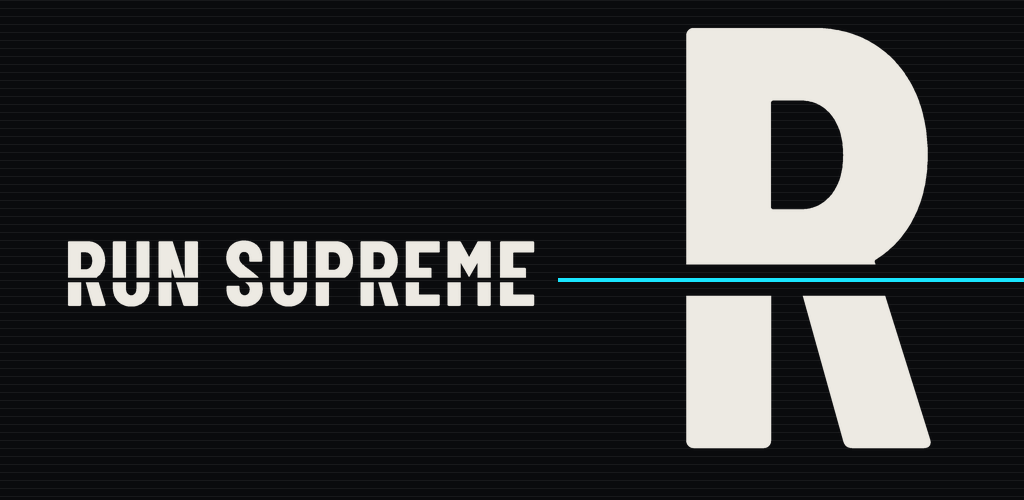
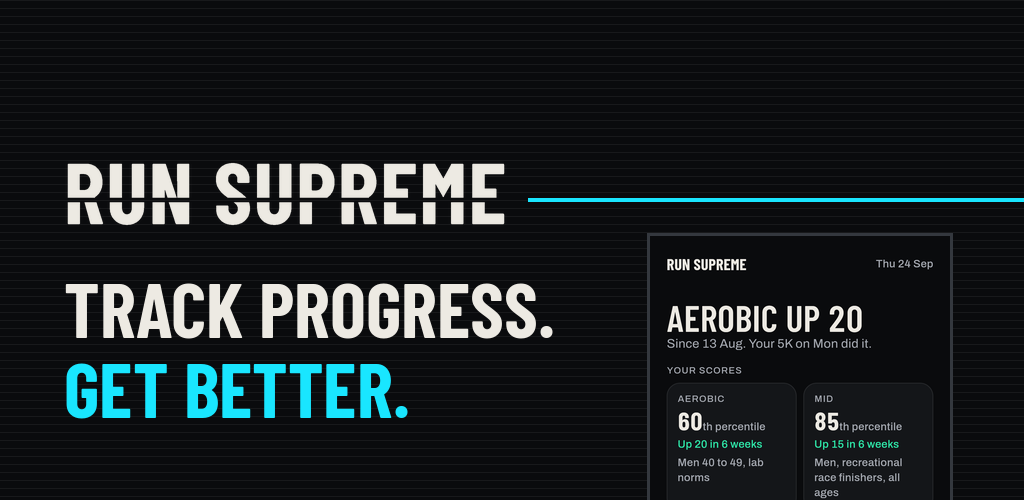
Store listing draft: taglines, description, screenshots (#164)
* Store listing draft: taglines, description, screenshots

Claude-Session: https://claude.ai/code/session_01BbvRwjMdLHyAGUNHf3xqHU

* Store listing: approved copy, progress feature graphic primary, onboarding headline

Claude-Session: https://claude.ai/code/session_01BbvRwjMdLHyAGUNHf3xqHU

* Onboarding intro goldens for the new headline

Claude-Session: https://claude.ai/code/session_01BbvRwjMdLHyAGUNHf3xqHU

---------

Changed region(s): [[0.0625, 0.03, 1.0, 1.0], [0.0625, 0.72, 0.4062, 0.84]]

diff --git a/test/screens/onboarding_test.dart b/test/screens/onboarding_test.dart
@@ -27,7 +27,7 @@ void main() {
       ),
     );
     // One frame, no post-frame work yet: this is what the phone shows first.
-    expect(find.text('YOU AGAINST\nYOUR LAST RUN'), findsOneWidget);
+    expect(find.text('TRACK PROGRESS.\nGET BETTER.'), findsOneWidget);
     expect(find.byType(HomeScreen), findsNothing);
   });
 
@@ -49,7 +49,7 @@ void main() {
     await settleAnimations(tester);
     expect(services.settings.settings.onboardingDone, isTrue);
     expect(find.byType(HomeScreen), findsOneWidget);
-    expect(find.text('YOU AGAINST\nYOUR LAST RUN'), findsNothing);
+    expect(find.text('TRACK PROGRESS.\nGET BETTER.'), findsNothing);
   });
 
   testWidgets('back from set up lands on the intro, never Home', (
@@ -64,7 +64,7 @@ void main() {
 
     await tester.binding.handlePopRoute();
     await settleAnimations(tester);
-    expect(find.text('YOU AGAINST\nYOUR LAST RUN'), findsOneWidget);
+    expect(find.text('TRACK PROGRESS.\nGET BETTER.'), findsOneWidget);
     expect(find.byType(HomeScreen), findsNothing);
     expect(services.settings.settings.onboardingDone, isFalse);
   });
@@ -84,7 +84,7 @@ void main() {
     await pumpTimes(tester, 5);
     await tester.pump(const Duration(milliseconds: 400));
     expect(find.byType(RecordingScreen), findsOneWidget);
-    expect(find.text('YOU AGAINST\nYOUR LAST RUN'), findsNothing);
+    expect(find.text('TRACK PROGRESS.\nGET BETTER.'), findsNothing);
     expect(services.settings.settings.onboardingDone, isFalse);
   });
 
@@ -158,7 +158,7 @@ void main() {
     final fade = find.byKey(const ValueKey('more-below-fade'));
     await pumpApp(tester, fakeServices(settings: _fresh), onboarding: true);
     await settleAnimations(tester);
-    expect(find.text('YOU AGAINST\nYOUR LAST RUN'), findsOneWidget);
+    expect(find.text('TRACK PROGRESS.\nGET BETTER.'), findsOneWidget);
     expect(fade, findsNothing, reason: 'the intro fits at 360 x 780');
 
     tester.view.physicalSize = const Size(1080, 640 * 3.0);

diff --git a/docs/index.html b/docs/index.html
@@ -4,7 +4,7 @@
 <meta charset="utf-8">
 <meta name="viewport" content="width=device-width, initial-scale=1">
 <title>Run Supreme</title>
-<meta name="description" content="Run Supreme: a 4x4 interval timer with GPS pace that tells you if you beat your last run.">
+<meta name="description" content="Run Supreme: track your run scores and progress, with 4x4 and interval verdicts, trail runs and GPS pace.">
 <style>
   :root { --bg:#0b0b0c; --ink:#ece7dc; --mute:#9c978d; --accent:#2fd7e6; }
   @media (prefers-color-scheme: light) { :root { --bg:#f6f3ec; --ink:#141414; --mute:#5c5a55; --accent:#0a8f9c; } }
@@ -19,7 +19,7 @@
 <body>
 <main>
   <h1>Run Supreme</h1>
-  <p>A 4x4 interval timer with GPS pace. Tells you, in one word, if you beat your last run.</p>
+  <p>Track progress. Get better. Run scores, honest 4x4 and interval verdicts, trail runs and GPS pace.</p>
   <p class="mute">Android. No account. No feed. No ads. Your runs stay on your phone unless you choose to send them.</p>
   <p><a href="privacy/">Privacy policy</a></p>
 </main>

diff --git a/lib/screens/shell_screen.dart b/lib/screens/shell_screen.dart
@@ -148,10 +148,10 @@ class _OnboardingIntro extends StatelessWidget {
               const SizedBox(height: Space.x48),
               const LapLineMark(height: 48),
               const SizedBox(height: Space.x32),
-              Text('YOU AGAINST\nYOUR LAST RUN', style: text.displayMedium),
+              Text('TRACK PROGRESS.\nGET BETTER.', style: text.displayMedium),
               const SizedBox(height: Space.x16),
               Text(
-                'Record a 4x4. Next time you get a verdict.',
+                'See your scores. Get a clear next session.',
                 style: text.bodyLarge?.copyWith(color: t.inkSecondary),
               ),
               const SizedBox(height: Space.x24),

diff --git a/store/play/build_screens.py b/store/play/build_screens.py
@@ -1,0 +1,124 @@
+#!/usr/bin/env python3
+"""Builds the Play Store phone screenshots and the progress-direction feature graphic.
+
+Screenshots are the CI golden images (test/golden/goldens) composited onto Aurora frames with a
+Barlow Condensed headline. Goldens use a fake map: shots marked MAP_PLACEHOLDER must be replaced
+with a real device capture before upload. Re-run whenever the goldens change.
+
+    python3 -m venv /tmp/brandvenv && /tmp/brandvenv/bin/pip install -r assets/brand/requirements.txt
+    /tmp/brandvenv/bin/python store/play/build_screens.py
+
+Writes store/play/screens/NN-name.png (1080x1920) and store/play/feature-graphic-1024x500.png.
+"""
+import sys
+from pathlib import Path
+
+from PIL import Image, ImageDraw, ImageFont
+
+HERE = Path(__file__).resolve().parent
+REPO = HERE.parents[1]
+sys.path.insert(0, str(REPO / "assets" / "brand"))
+import build_brand as bb  # noqa: E402  (font + Lap Line geometry)
+
+GOLD = REPO / "test" / "golden" / "goldens"
+FONT = REPO / "assets" / "fonts" / "BarlowCondensed-Bold.ttf"
+OUT = HERE / "screens"
+
+BG, RAISED, BONE, ARC = (10, 11, 13), (20, 22, 25), (237, 234, 227), (25, 230, 255)
+MUTED = (165, 169, 177)
+W, H = 1080, 1920
+TAGLINE = "Track progress. Get better."
+
+# (file, golden, headline, subline, map placeholder)
+SHOTS = [
+    ("01-progress", "home_progress_up_360x800", "SEE YOUR PROGRESS", "Four scores, and what moved", False),
+    ("02-next-session", "start_session_400s_360x800", "PICK YOUR SESSION", "Free, trail, intervals, goals", False),
+    ("03-live-numbers", "record_rep_360x800", "BIG LIVE NUMBERS", "Readable at a glance, mid-rep", False),
+    ("04-verdict", "verdict_faster", "AN HONEST VERDICT", "Faster, holding or slower", False),
+    ("05-trail", "trail_verdict_faster_360x800", "TRAIL VERDICTS", "Same trail, same footing", False),
+    ("06-follow-route", "record_route_numbers_trail_360x800", "FOLLOW A ROUTE", "Turn alerts, off-route warnings", False),
+    ("07-live-map", "record_route_map_free_360x800", "LIVE MAP ON TAP", "Numbers first, map when you want", True),
+    ("08-climbs", "detail_elevation_360x800", "CLIMBS COUNTED", "Grade-adjusted pace, estimate", False),
+]
+
+CHECKS = {}  # name -> note, filled while building
+
+
+def font(size, path=FONT):
+    return ImageFont.truetype(str(path), size)
+
+
+def rounded_top(im, radius):
+    mask = Image.new("L", im.size, 0)
+    ImageDraw.Draw(mask).rounded_rectangle([0, 0, im.width - 1, im.height + radius], radius, fill=255)
+    out = Image.new("RGBA", im.size, (0, 0, 0, 0))
+    out.paste(im.convert("RGBA"), (0, 0), mask)
+    return out
+
+
+def frame(golden, head, sub):
+    img = Image.new("RGB", (W, H), BG)
+    d = ImageDraw.Draw(img)
+    for y in range(0, H, 8):  # lane lines, as on the feature graphic
+        d.line([(0, y), (W, y)], fill=(16, 17, 19))
+    size = 124
+    while d.textlength(head, font=font(size)) > W - 144:  # never clip a headline
+        size -= 4
+    d.text((72, 96 + (124 - size) // 2), head, font=font(size), fill=BONE)
+    hw = d.textlength(head, font=font(size))
+    ly = 96 + 124 + 38
+    d.rounded_rectangle([72, ly, 72 + max(hw, 360), ly + 10], 5, fill=ARC)  # lap line under the headline
+    d.text((72, ly + 34), sub, font=font(46, REPO / "assets" / "fonts" / "BarlowCondensed-SemiBold.ttf"), fill=MUTED)
+    shot = Image.open(GOLD / f"{golden}.png").convert("RGB")
+    sw = 860
+    shot = shot.resize((sw, round(shot.height * sw / shot.width)), Image.LANCZOS)
+    top = ly + 130
+    shot = shot.crop((0, 0, sw, H - top))  # bleeds off the bottom
+    border = Image.new("RGB", (sw + 8, shot.height + 8), (52, 56, 62))
+    x = (W - sw) // 2
+    img.paste(rounded_top(border, 60), (x - 4, top - 4), rounded_top(border, 60))
+    img.paste(rounded_top(shot, 56), (x, top), rounded_top(shot, 56))
+    return img
+
+
+def feature_graphic():
+    w, h = 1024, 500
+    img = Image.new("RGB", (w, h), BG)
+    d = ImageDraw.Draw(img, "RGBA")
+    for y in range(0, h, 8):
+        d.line([(0, y), (w, y)], fill=(255, 255, 255, 15))
+    line_px = 200
+    _, _, wx, _ = bb.bounds(bb.WORD)
+    k = 440 / wx
+    bb.paint(img, bb.BONE, bb.WORD, (k, 0, 0, -k, 64, line_px + bb.CUT_Y * k))
+    ImageDraw.Draw(img).rectangle(
+        [64 + wx * k + 24, line_px - bb.LINE_T / 2 * k, w, line_px + bb.LINE_T / 2 * k], fill=bb.ARC)
+    # Tagline under the line, two lines so it stays big.
+    f = font(76)
+    d.text((64, 262), "TRACK PROGRESS.", font=f, fill=BONE)
+    d.text((64, 262 + 80), "GET BETTER.", font=f, fill=ARC)
+    # Phone crop on the right, bleeding off the bottom.
+    shot = Image.open(GOLD / "home_progress_up_360x800.png").convert("RGB")
+    sw = 300
+    shot = shot.resize((sw, round(shot.height * sw / shot.width)), Image.LANCZOS)
+    top = 236
+    shot = shot.crop((0, 0, sw, h - top))
+    x = 650
+    img.paste(Image.new("RGB", (sw + 6, shot.height + 6), (52, 56, 62)), (x - 3, top - 3))
+    img.paste(shot, (x, top))
+    # keep the lap line in front of the phone edge
+    ImageDraw.Draw(img).rectangle([x - 3, line_px - bb.LINE_T / 2 * k, w, line_px + bb.LINE_T / 2 * k], fill=bb.ARC)
+    return img
+
+
+def main():
+    OUT.mkdir(exist_ok=True)
+    for name, golden, head, sub, placeholder in SHOTS:
+        frame(golden, head, sub).save(OUT / f"{name}.png", optimize=True)
+        print(f"{name}.png  <- {golden}.png" + ("   REPLACE WITH DEVICE CAPTURE (fake map)" if placeholder else ""))
+    feature_graphic().save(HERE / "feature-graphic-1024x500.png", optimize=True)
+    print("feature-graphic-1024x500.png")
+
+
+if __name__ == "__main__":
+    main()

diff --git a/assets/brand/build_brand.py b/assets/brand/build_brand.py
@@ -462,7 +462,7 @@ def main():
 
     STORE.mkdir(parents=True, exist_ok=True)
     play_icon(t).save(STORE / "icon-512.png", optimize=True)
-    feature_graphic(args.hero).save(STORE / "feature-graphic-1024x500.png", optimize=True)
+    feature_graphic(args.hero).save(STORE / "feature-graphic-wordmark-1024x500.png", optimize=True)
     # iOS: one 1024 px universal icon; Xcode 14+ derives every other size from it.
     IOS_ICON.mkdir(parents=True, exist_ok=True)
     ios_icon(t).save(IOS_ICON / "Icon-App-1024x1024@1x.png", optimize=True)

diff --git a/docs/play-console.md b/docs/play-console.md
@@ -20,26 +20,42 @@ Founder approves the wording (plan §18.9 item 8) before anything is typed into 
 
 ## 1. Store listing
 
-- **App name (30 chars)**: `Run Supreme: 4x4 Interval Run` (29). The brief's alternative
-  `Run Supreme: Norwegian 4x4 Run` is 30, at the limit; founder picks.
-- **Short description (80)**: `4x4 interval timer with GPS pace. Tells you if you beat your last run.` (70)
-- **Long description**: design brief §6, with the A7 privacy paragraph replacing the older line:
+- **App name (30 chars)**: `Run Supreme: 4x4 Interval Run` (29). Founder approved 3-Oct-2026. (The ampersand version is 32 chars, over the limit.)
+- **Short description (80)**: `Run scores, honest verdicts and trail runs. See what is improving. No account.` (78)
+- **Tagline** (feature graphic, first screenshot): Track progress. Get better. Approved 3-Oct-2026; the old "You against your last run" line is retired.
+- **Long description** (source: `store/play/listing.md`):
 
-> Run Supreme is a Norwegian 4x4 timer that records your pace with GPS and tells you, in one word, whether you beat your last 4x4.
+> Run Supreme shows you how your running is going, whatever mix of runs you do.
 >
-> Warm up as long as you like, tap START 4x4, and the app runs every rep and recovery with voice and vibration cues, so your phone can stay in your pocket. When you stop, you get the verdict: FASTER, HOLDING or SLOWER, with the rep paces, fade and recovery pace that decided it. Small differences inside GPS noise are called what they are: no real change.
+> Your Home screen gives you four scores: AEROBIC, SPEED, MID and LONG. Each is a percentile estimate from your own runs, compared with research-based norms for your age and sex. You see what moved, and over what period. Under that is one suggested session and why it would help, with Start already set to it. Tap Change to pick something else.
 >
-> Pair any Bluetooth heart rate strap, including Whoop broadcast, and Run Supreme adds time in zone and tells you when you ran faster at the same effort.
+> Intervals and 4x4
+> Pick a session, warm up as long as you like, then the app runs every rep and recovery with voice and vibration cues. Your phone can stay in your pocket. When you stop you get a plain verdict: faster, holding or slower, with the rep paces and fade that decided it. Differences inside GPS noise are called no real change.
 >
-> Free runs get a clean summary. Every 4x4 goes on a trend line with your bests. Follow a fixed 8-week 4x4 plan or a 5k plan: pick your days, tick sessions off, start the right session from the plan.
+> Big numbers while you run
+> The number that matters is the biggest one on screen, and it changes with the phase: rep pace in a rep, time to go in a recovery. Switch to a live map if you want one, then switch back.
 >
-> No account. No feed. No ads. No analytics of our own. Your recorded route, times and heart rate stay on your phone unless you choose to send them. Map tiles come from Google, which sees the map area you view (on a run's detail screen, or on the record screen if you switch it to MAP during a run) and your IP address. Weather comes from Open-Meteo using your location rounded to about 10 km. Your phone's own geocoder names a run's start point and may use Google Play services. Send a run as a TCX or GPX file any time.
+> Trail runs
+> Trail runs get their own verdicts. Run the same trail again and you are compared with your last run on that trail, not with a flat road. Elevation comes from your phone's barometer where it has one. Grade-adjusted pace is an estimate of your flat-ground equivalent.
 >
-> Coming in the paid version: tempo and easy-run verdicts, adaptive plans, iOS. Join the waitlist inside the app.
+> Follow a route
+> Load a route and follow it, with turn alerts and an off-route warning if you drift.
+>
+> Also
+> - Auto-pause at traffic lights and gates
+> - Pair a Bluetooth heart rate strap for time in zone
+> - Estimated race times from your recent runs
+> - Your bests and recent attempts on a chart, like for like
+> - Send any run to Health Connect, Intervals.icu, or as a TCX or GPX file (works with Strava)
+>
+> Private by default
+> No account. No feed. No ads. Your routes, times and heart rate stay on your phone unless you choose to send them. Map tiles come from Google, which sees the map area you view and your IP address. Weather comes from Open-Meteo using your location rounded to about 10 km. Your phone's own geocoder names a run's start point and may use Google Play services.
+>
+> Run Supreme is a training tool, not medical advice. Scores and estimates are guides based on research, not measurements of your health.
 
 - **Category**: Health & Fitness. **Tags**: Running, Fitness tracker, Interval training.
 - **Countries**: English-speaking non-EU per plan §10: AU, NZ, US, CA, GB, SG, ZA. (IE is EU, so not in the list.)
-- **Graphics**: icon `store/play/icon-512.png` (Lap Line R), feature graphic `store/play/feature-graphic-1024x500.png` (vector version until the hero photo is licensed, `store/art/LICENSES.md`); both rebuilt by `assets/brand/build_brand.py`; 6 screenshots 1080x2400 with the brief's captions; HR pairing as #7 if there is room. No Hyrox marks or keywords anywhere.
+- **Graphics**: icon `store/play/icon-512.png` (Lap Line R), feature graphic `store/play/feature-graphic-1024x500.png` (progress direction, built by `store/play/build_screens.py`; the wordmark version is `feature-graphic-wordmark-1024x500.png` from `assets/brand/build_brand.py`); 8 screenshots 1080x1920 in `store/play/screens/` (also `build_screens.py`; Play wants each side 320-3840 px and the long side at most twice the short one, so 1080x2400 would be rejected). Screenshot 07 (live map) uses a fake-map golden: replace with a real device capture before upload. No Hyrox marks or keywords anywhere.
 - **Contact details**: email above; website `https://runsolo.app`.
 
 ## 2. Privacy policy

diff --git a/store/play/listing.md b/store/play/listing.md
@@ -1,0 +1,57 @@
+# Play listing draft: progress direction
+
+Status: founder approved 3-Oct-2026: tagline option 1, title A. `docs/play-console.md` section 1 now carries the approved copy; the other options stay here for reference. The old tagline "You against your last run" is retired (Home is about scores, progress and how to get better).
+
+## Store title (max 30)
+
+| | Title | Chars | Note |
+|---|---|---|---|
+| A | Run Supreme: 4x4 Interval Run | 29 | Current. NB the longer "Run Supreme: 4x4 & Interval Runs" is 32 chars, over the limit |
+| B | Run Supreme: Run Progress | 25 | Matches the new direction, loses the 4x4 search term |
+| C | Run Supreme: Trail & Intervals | 30 | Keeps intervals, adds trail, no "4x4" |
+
+Recommendation: A for launch (4x4 is the strongest search term and is still the sharpest feature), B once reviews show people arrive for progress rather than the timer. Play indexes the short and full description too, so "4x4" still appears there if the title drops it.
+
+## Taglines and short descriptions
+
+Tagline = 4-6 words (feature graphic, first screenshot). Short description max 80.
+
+| | Tagline | Short description | Chars |
+|---|---|---|---|
+| 1 | Track progress. Get better. | Run scores, honest verdicts and trail runs. See what is improving. No account. | 78 |
+| 2 | Know where you are improving | Four run scores, a clear next session and honest verdicts. Private, no account. | 79 |
+| 3 | Scores that show your progress | See your run scores move, then get one clear session to improve. No account. | 76 |
+| 4 | Intervals, trails and real progress | 4x4 and interval runs, trail runs and run scores in one private app. No account. | 80 |
+| 5 | Every run type, one score | Mix 4x4s, trails and easy runs and still see your progress. Private, no account. | 80 |
+
+Recommended: **1, "Track progress. Get better."** It says the two things Home does, works for someone who mixes 4x4s, trails and free runs, and is short enough to be the biggest text on the feature graphic. Option 5 is the runner-up if we want the mixed-runs point explicit.
+
+## Full description (max 4000)
+
+Run Supreme shows you how your running is going, whatever mix of runs you do.
+
+Your Home screen gives you four scores: AEROBIC, SPEED, MID and LONG. Each is a percentile estimate from your own runs, compared with research-based norms for your age and sex. You see what moved, and over what period. Under that is one suggested session and why it would help, with Start already set to it. Tap Change to pick something else.
+
+Intervals and 4x4
+Pick a session, warm up as long as you like, then the app runs every rep and recovery with voice and vibration cues. Your phone can stay in your pocket. When you stop you get a plain verdict: faster, holding or slower, with the rep paces and fade that decided it. Differences inside GPS noise are called no real change.
+
+Big numbers while you run
+The number that matters is the biggest one on screen, and it changes with the phase: rep pace in a rep, time to go in a recovery. Switch to a live map if you want one, then switch back.
+
+Trail runs
+Trail runs get their own verdicts. Run the same trail again and you are compared with your last run on that trail, not with a flat road. Elevation comes from your phone's barometer where it has one. Grade-adjusted pace is an estimate of your flat-ground equivalent.
+
+Follow a route
+Load a route and follow it, with turn alerts and an off-route warning if you drift.
+
+Also
+- Auto-pause at traffic lights and gates
+- Pair a Bluetooth heart rate strap for time in zone
+- Estimated race times from your recent runs
+- Your bests and recent attempts on a chart, like for like
+- Send any run to Health Connect, Intervals.icu, or as a TCX or GPX file (works with Strava)
+
+Private by default
+No account. No feed. No ads. Your routes, times and heart rate stay on your phone unless you choose to send them. Map tiles come from Google, which sees the map area you view and your IP address. Weather comes from Open-Meteo using your location rounded to about 10 km. Your phone's own geocoder names a run's start point and may use Google Play services.
+
+Run Supreme is a training tool, not medical advice. Scores and estimates are guides based on research, not measurements of your health.

diff --git a/assets/brand/README.md b/assets/brand/README.md
@@ -25,7 +25,7 @@ Generated straight into the app and the store folder (do not hand-edit; regenera
 | `res/drawable/ic_stat_runsupreme.xml` | Notification small icon, used by `RecorderNotification` with `setColor(#19E6FF)` |
 | `res/drawable/splash_icon.xml` | Android 12 splash icon. Not referenced yet: B3 sets it as `windowSplashScreenAnimatedIcon` on `#0A0B0D` |
 | `store/play/icon-512.png` | Play Store icon, 512 x 512, the launcher artwork cropped to the central 80 dp (Play masks the corners) |
-| `store/play/feature-graphic-1024x500.png` | Play feature graphic: wordmark left, large R right, one lap line through both. Vector version; `--hero` adds the licensed photo (`store/art/LICENSES.md`) |
+| `store/play/feature-graphic-wordmark-1024x500.png` | Alternate Play feature graphic (the primary is built by `store/play/build_screens.py`): wordmark left, large R right, one lap line through both. Vector version; `--hero` adds the licensed photo (`store/art/LICENSES.md`) |
 
 ## Geometry (font units, cap height 700)
 

diff --git a/docs/closed-test-testers.md b/docs/closed-test-testers.md
@@ -27,7 +27,7 @@ Release notes (first closed release):
 
 ## Message to send testers (copy, paste, personalise the first line)
 
-> Hey, thanks for helping test Run Supreme. It is a simple Android running app: a 4x4 interval timer that records your pace with GPS and tells you if you beat your last run. No account, no ads, your runs stay on your phone.
+> Hey, thanks for helping test Run Supreme. It is a simple Android running app: tracks your run scores and progress, times 4x4 and interval sessions, and records trail runs with GPS. No account, no ads, your runs stay on your phone.
 >
 > **To get it (two steps, both needed):**
 > 1. Open this link on your phone, signed in to the Google account your Play Store uses, and tap **Become a tester**: `<opt-in link>`
